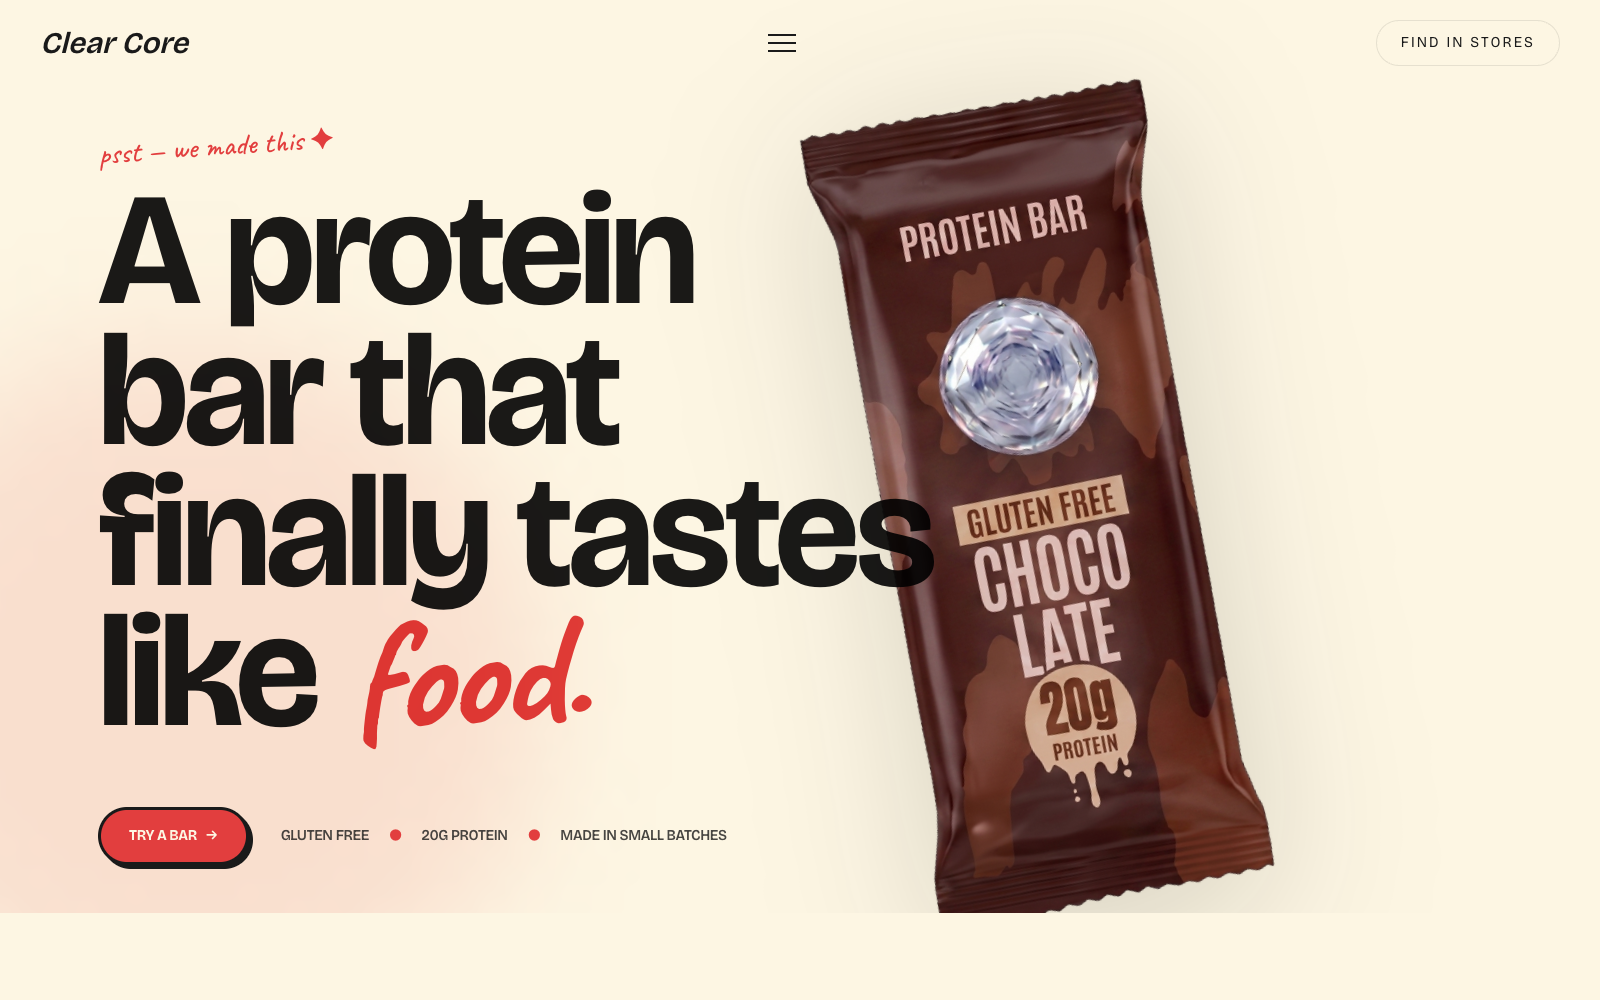
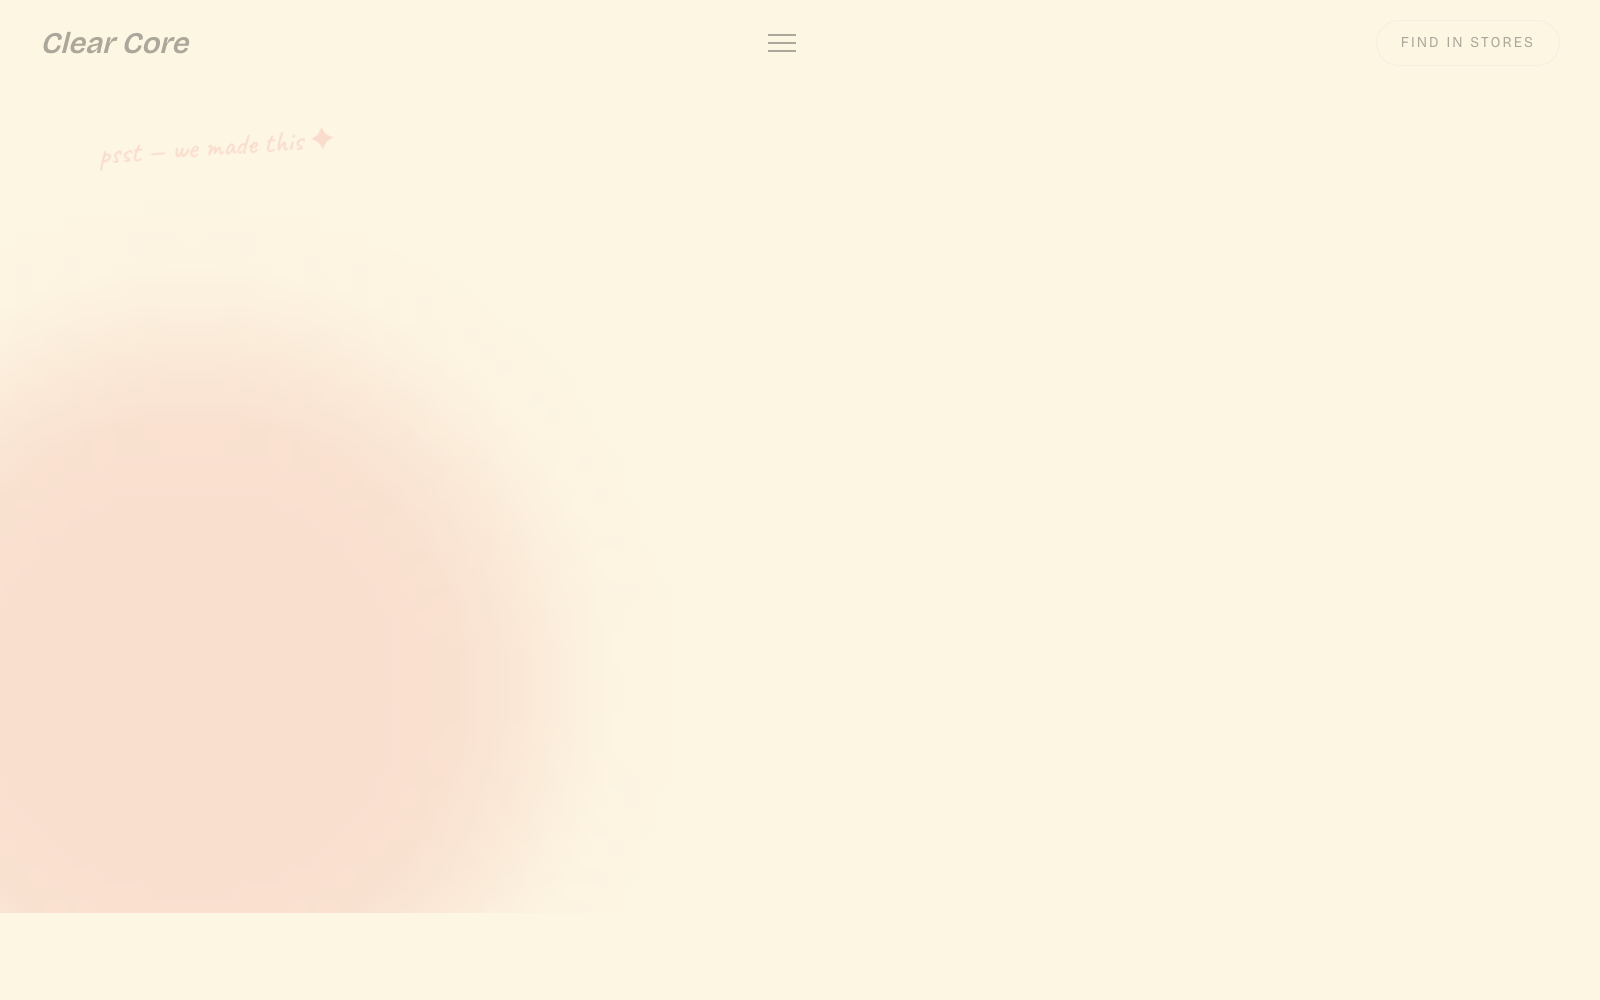
Shift hero bar further right so it stops crowding the headline
Bumped the negative right offsets and slightly reduced the bar width
across breakpoints so the chocolate packaging bleeds further off
the right edge:

         right          width
mobile:  -32% (was -22)  100% (was 110)
sm:      -26% (was -18)   82% (was 90)
md:      -22% (was -12)   68% (was 75)
lg:      -18% (was  -8)   58% (was 62)
xl:      -16% (was none)  54% (was 58)

On lg the bar's left edge now sits ~60% from the viewport left
(was ~46%), giving the 'finally tastes / like food.' lines clear
breathing room. mix-blend-multiply on the headline still runs in
case the rotated bar clips a letter.

docs/hero.png refreshed to match.

diff --git a/src/sections/Hero.tsx b/src/sections/Hero.tsx
@@ -33,9 +33,9 @@ export default function Hero() {
           delay: 0.2,
         }}
         className="absolute pointer-events-none select-none drop-shadow-[0_30px_80px_rgba(26,26,26,0.18)]
-          right-[-22%] sm:right-[-18%] md:right-[-12%] lg:right-[-8%]
+          right-[-32%] sm:right-[-26%] md:right-[-22%] lg:right-[-18%] xl:right-[-16%]
           top-1/2 -translate-y-1/2
-          w-[110%] sm:w-[90%] md:w-[75%] lg:w-[62%] xl:w-[58%]
+          w-[100%] sm:w-[82%] md:w-[68%] lg:w-[58%] xl:w-[54%]
           max-w-none
           opacity-95"
       />